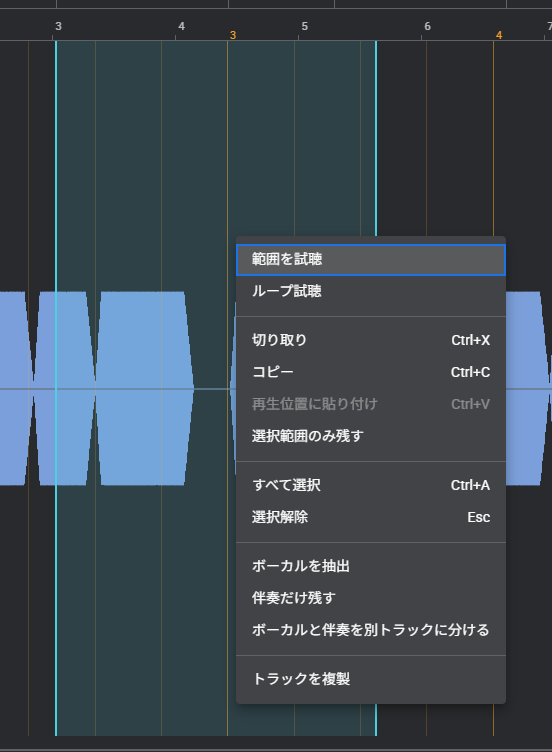
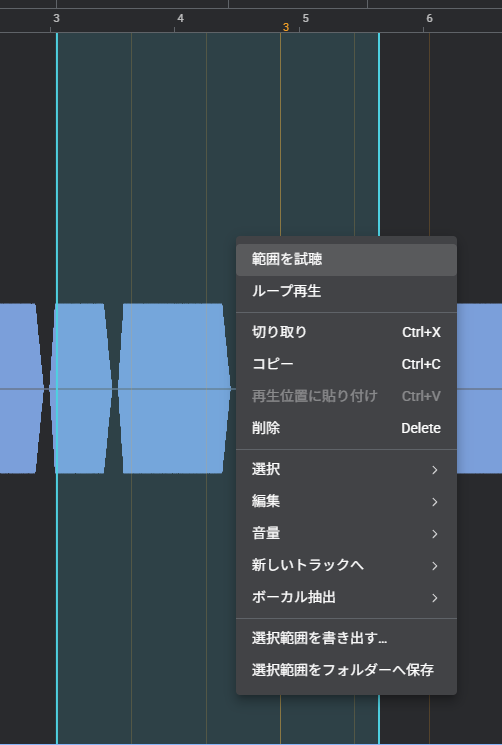
docs: 画面の画像を撮り直し、スマホの範囲の選択と設定の追加機能の画像を足す。トラックの I に番号を付け、ピッチの編集から処理方式へリンクする

Changed region(s): [[0.0, 0.0, 1.0, 1.0], [0.9861, 0.0309, 1.0, 0.0617]]

diff --git a/docs/WRITING.md b/docs/WRITING.md
@@ -34,6 +34,13 @@
 - MANUAL.md に `##` の見出しを追加したら、スクリプトの `PAGES` にどのページに入れるかを追加する（追加しないとスクリプトが止まる）
 - wiki に `<details>`（折りたたみ）は使わないため、wiki のページでは見出しに置き換える
 
+## 画像
+- 画面の画像（`docs/images/`）は `npm run docs:shots` で撮り直す（`scripts/screenshots/`）。開発サーバーを立て、ヘッドレスの Chrome でアプリを操作して撮る。一部だけなら `npm run docs:shots -- main toolbar` のように名前を並べる
+- 追加機能の画面を撮るときは、先に `node scripts/build-addons.mjs public analyzer converter` を実行する（モデルの取得は要らない）
+- 撮影用の音声は、スクリプトの中で作る（実在の曲を使わない）
+- 番号付きの画像（`_with_note`）の番号は、ボタンなどの位置から計算して重ねる。MANUAL.md の表の番号と合わせる
+- 新しい画像は `scripts/screenshots/` の desktop.mjs、dialogs.mjs、mobile.mjs に手順を追加する
+
 ## 更新
 - コードを変えて内容が食い違ったら、同じ変更の中でドキュメントも直す
 - 処理時間や「未確認のこと」のような時点で変わる情報には日付を付ける（例: `(2026-09-27 時点)`）

diff --git a/docs/wiki/settings.md b/docs/wiki/settings.md
@@ -24,6 +24,10 @@
 | 開発者向け → 試験的機能 | 試験的な処理方式を使用する（Specraw。往復や重ねた加工で劣化しにくいことを目指す、開発中の方式）、「和音を分ける」を表示する（2 つの声を、高い方と低い方、または大きい方と小さい方の 2 つのトラックに分ける。選択範囲があれば、その範囲だけ。単純な和音向け）、GPUでの並列処理を有効する（20 秒以上の音のピッチ変換を 10 秒ずつに分け、CPU の複数のコアで同時に行う。区間ごとに最大 5ms ずれる） |
 | 開発者向け → 診断 | ボーカル抽出の診断 |
 
+「追加機能」では、ボーカル抽出のモデル、解析、変換のダウンロードと削除ができる。ダウンロードしたものはオフラインでも使用できる。
+
+<img src="../images/addons.png" alt="設定の「追加機能」。モデルや追加機能ごとに大きさとダウンロードのボタンが並ぶ" width="640">
+
 「全般」と「処理」の下の分類は、一覧で親の分類の下に表示される。「全般」→「ファイル」は Chrome、Edge のパソコン版のみ表示される。
 
 ## 設定画面の操作

diff --git a/docs/wiki/tracks.md b/docs/wiki/tracks.md
@@ -10,9 +10,9 @@
 | 1 | トラックの名前と音量メーター。編集中のトラックは明るく表示される |
 | 2 | M（ミュート）: このトラックを再生しない |
 | 3 | S（ソロ）: このトラックのみを再生する |
-| ― | I（位相反転）: 波形の上下を反転して再生する。他のトラックとの打ち消し合いの修正/確認に使用する。書き出しにも反映され、プロジェクトに保存される（画像には未掲載） |
-| 4 | トラックの欄を折りたたむ（タブ表示にする）/展開する |
-| 5 | トラックの波形。再生されないトラックは薄く表示される |
+| 4 | I（位相反転）: 波形の上下を反転して再生する。他のトラックとの打ち消し合いの確認や修正に使用する。書き出しにも反映され、プロジェクトに保存される |
+| 5 | トラックの欄を折りたたむ（タブ表示にする）、展開する |
+| 6 | トラックの波形。再生されないトラックは薄く表示される |
 
 | 操作 | 動作 |
 | --- | --- |

diff --git a/docs/wiki/screen.md b/docs/wiki/screen.md
@@ -144,6 +144,8 @@
 | 範囲の両端の丸（つまみ） | 端を動かす（拍の線とマーカーに吸着する） | — | — | — |
 | 時間目盛り | 再生位置を動かす | 再生位置へ | 表示範囲を横に動かす | 同上 |
 
+<img src="../images/mobile-select.png" alt="スマホでなぞって範囲を選択し、波形の下に編集のボタンが表示されたところ" width="320">
+
 - 範囲を選ぶと、波形の下に編集のボタン（試聴、切り取り、コピー、貼り付け、削除、新トラック、その他）が表示される。「その他」は、パソコンの右クリックと同じメニュー（サブメニューはタップすると中に入る）
 - トラックの「⋯」で、トラックの右クリックと同じメニューを開く
 - ペンや掴むモードのときは、1 本の指で描く、掴む

diff --git a/docs/wiki/pitch.md b/docs/wiki/pitch.md
@@ -3,6 +3,8 @@
 
 表示の切り替えで「ピッチ」を ON にすると、波形の下にピッチパネルが表示され、声の高さが線で表される（音名の目盛り付き）。境界をドラッグすると高さを変更できる。
 
+描いたピッチを音声に反映するときの音質は、加工の欄で選んでいる処理方式で変わる。方式の選び方は [処理方式](processing.md#処理方式から選択) を参照。
+
 ## ペンで描く
 
 ペンのボタンを ON にしてピッチパネルをドラッグすると、目標のピッチを青い線で描ける。
